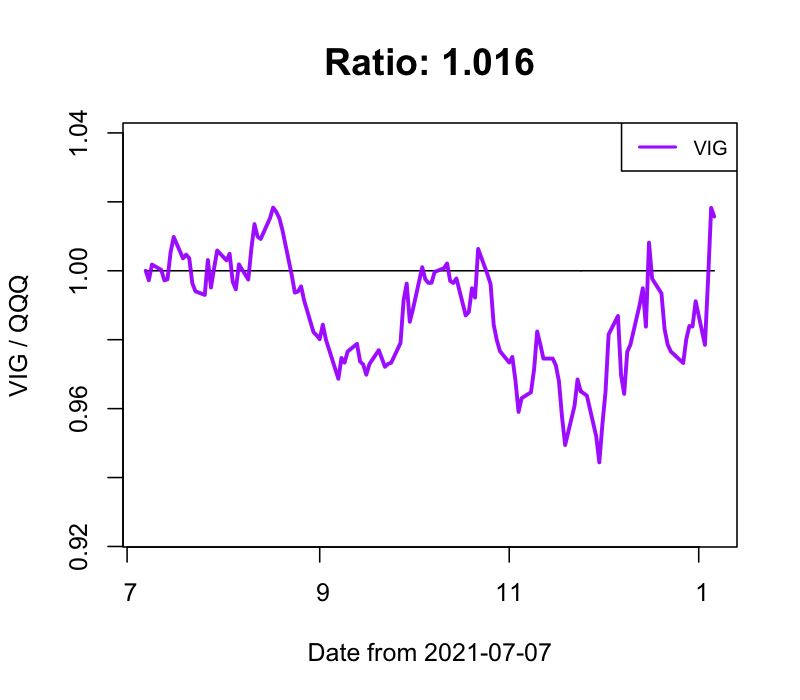
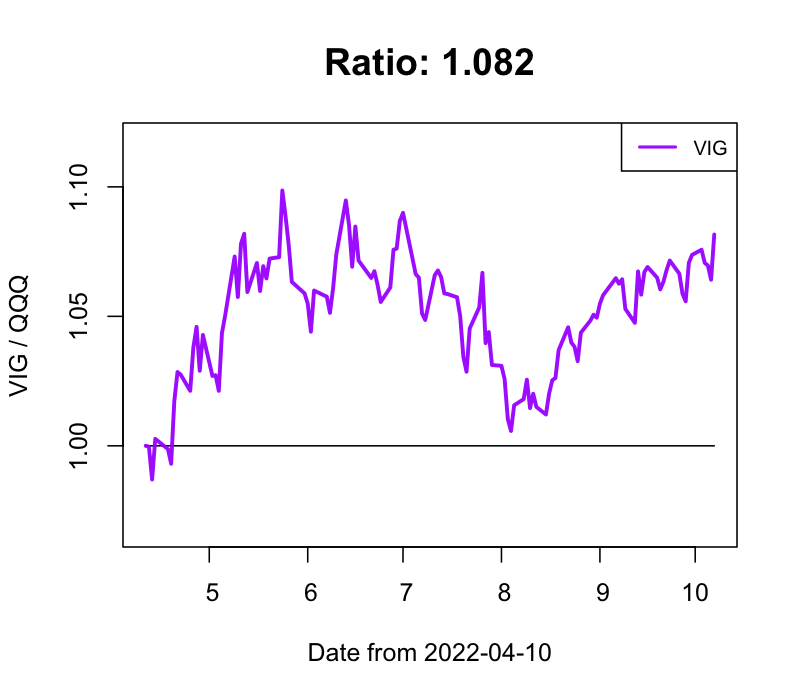
The first devel version

diff --git a/README.md b/README.md
@@ -2,21 +2,17 @@
 
 ### 逆張り投資 買いタイミング判定 ver 0.99.1
 
-"- 2022-01-07 index銘柄"
+"- 2022-10-10 index銘柄"
 
-"  - 買いタイミング！: QQQ, AIQ, BOTZ, BUG, EBIZ, FXI, GDX, GDXJ, HYG, JNK, MGK, MILN, SHE, SLV, SPYG, VBK, VGT, VHT, VONG, VOOG, VOX, VPL, VUG, VXF, XLC, XLK, XLV"
+"  - 買いタイミング！: IWM, AIQ, BOTZ, BUG, CLOU, EBIZ, EDOC, FEZ, FINX, FXI, HDV, HYG, JNK, LQD, MGK, MILN, SHE, SMH, TIP, VAW, VBK, VCR, VEA, VFH, VGK, VHT, VIOG, VIS, VONG, VOT, VOX, VPL, VUG, VWO, VXF, VYM, XLC, XLF, XLI, XLV, XLY"
 
-"  - 強く買いタイミング！！！: AGG, AGGY, BND, CLOU, EDOC, FINX, ICLN, LQD, PBD, TIP, TLT, VOT, VWOB"
+"  - 強く買いタイミング！！！: QQQ, VTI, SPY, DIA, VOO, AGG, AGGY, BND, ICLN, IYR, PBD, SPLG, SPTM, SPYD, SPYG, SRET, SUSA, TLT, VDC, VGT, VIG, VONE, VONV, VOOG, VOOV, VPU, VT, VWOB, XLK, XLP, XLRE, XLU"
 
-"  - 利確タイミング！: VFH, VOOV, XLF"
+"  - 利確する銘柄なしで、見送り"
 
-"  - 強く利確タイミング！！！: HDV, SPYD, VDC, VDE, VYM, XLP"
+"- 2022-10-10 レバレッジ銘柄"
 
-"- 2022-01-07 レバレッジ銘柄"
-
-"  - 買いタイミング！: TQQQ, CHAU, TNA"
-
-"  - 強く買いタイミング！！！: YINN, WEBL, CWEB, LABU, EDC"
+"  - 強く買いタイミング！！！: SOXL, YINN, WEBL, TECL, TQQQ, UDOW, CHAU, CWEB, CURE, LABU, TNA, INDL, SPXL, FAS, DRN, EDC, QLD"
 
 "  - 利確する銘柄なしで、見送り"
 
